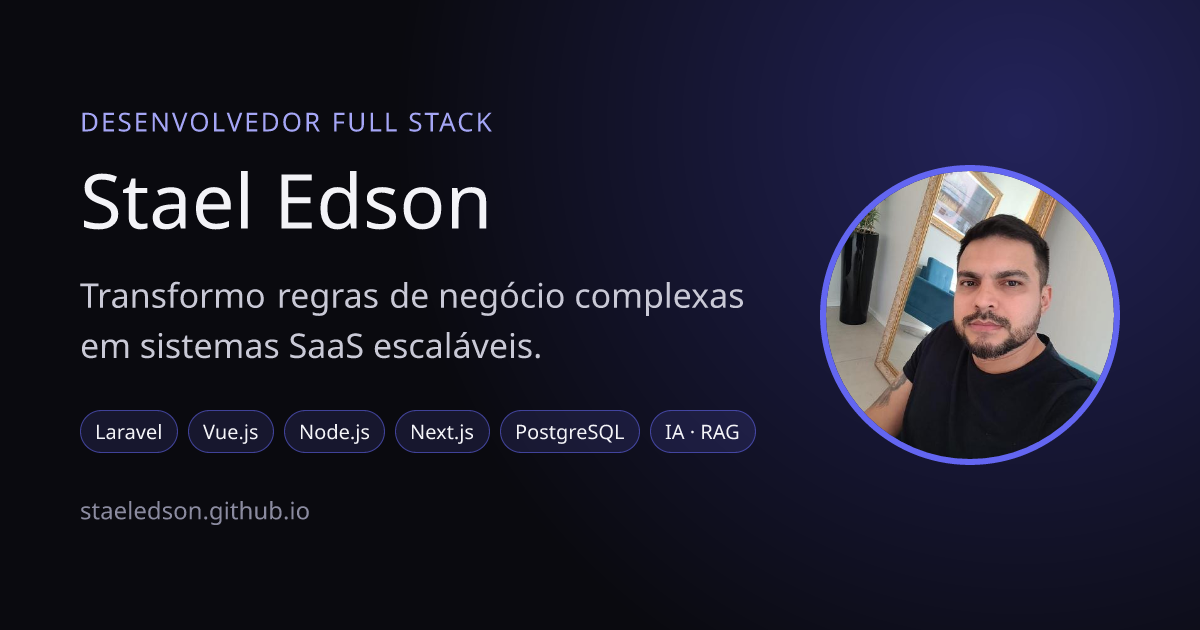
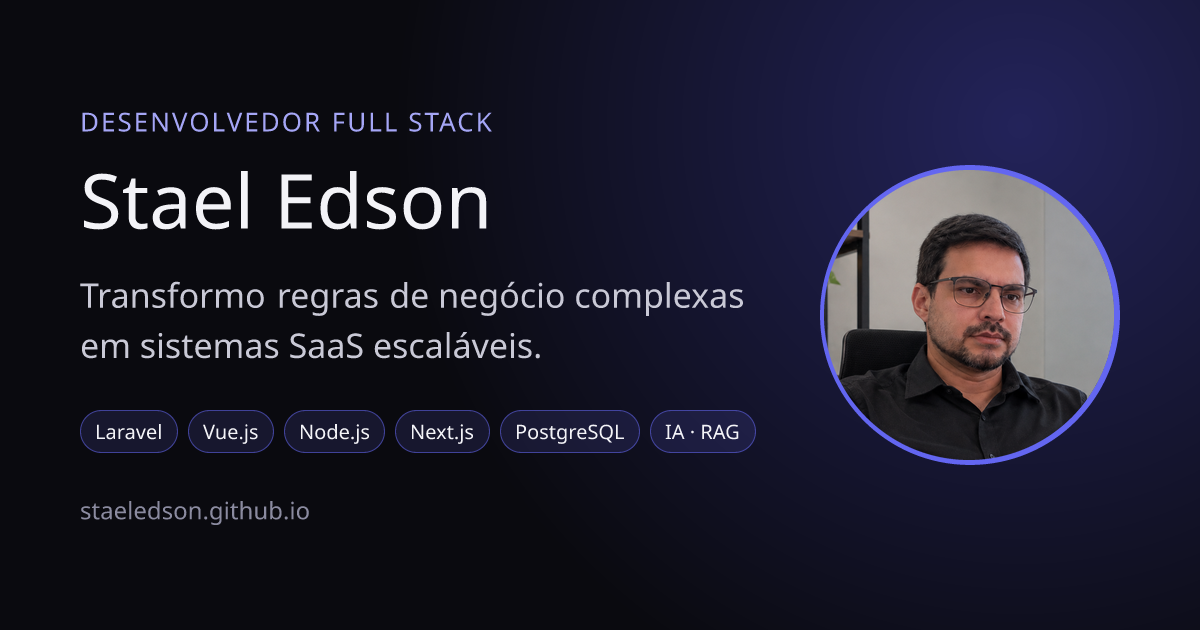
Atualiza foto de perfil e contador de experiência para 3,5+
- Nova foto (a mesma do LinkedIn) no avatar do hero, na seção Sobre
  (recorte 4:5 em profile-about.jpg) e na imagem de compartilhamento og.png
- CountUp passa a exibir uma casa decimal para valores não inteiros,
  formatada conforme o idioma (3,5+ / 3.5+)

Changed region(s): [[0.6783, 0.2714, 0.9558, 0.7238]]

diff --git a/src/components/ui/CountUp.tsx b/src/components/ui/CountUp.tsx
@@ -3,14 +3,16 @@
 import { useEffect, useRef, useState } from "react";
 import { useInView, useReducedMotion } from "framer-motion";
 
-/** Counts from 0 to `value` once it scrolls into view. */
+/** Counts from 0 to `value` once it scrolls into view. Keeps one decimal for non-integer values. */
 export default function CountUp({
-  value, suffix = "", duration = 1400,
-}: { value: number; suffix?: string; duration?: number }) {
+  value, suffix = "", duration = 1400, locale = "pt",
+}: { value: number; suffix?: string; duration?: number; locale?: string }) {
   const ref = useRef<HTMLSpanElement>(null);
   const inView = useInView(ref, { once: true, amount: 0.4 });
   const reduce = useReducedMotion();
   const [n, setN] = useState(0);
+  const decimals = Number.isInteger(value) ? 0 : 1;
+  const factor = 10 ** decimals;
 
   useEffect(() => {
     if (!inView) return;
@@ -20,12 +22,16 @@ export default function CountUp({
     const tick = (t: number) => {
       const p = Math.min(1, (t - start) / duration);
       const eased = 1 - Math.pow(1 - p, 3);
-      setN(Math.round(eased * value));
+      setN(Math.round(eased * value * factor) / factor);
       if (p < 1) raf = requestAnimationFrame(tick);
     };
     raf = requestAnimationFrame(tick);
     return () => cancelAnimationFrame(raf);
   }, [inView, reduce, value, duration]);
 
-  return <span ref={ref}>{n}{suffix}</span>;
+  const text = n.toLocaleString(locale, {
+    minimumFractionDigits: decimals,
+    maximumFractionDigits: decimals,
+  });
+  return <span ref={ref}>{text}{suffix}</span>;
 }

diff --git a/src/lib/content.ts b/src/lib/content.ts
@@ -408,7 +408,7 @@ export const projects: Project[] = [
     stats: {
       kicker: "Em números",
       items: [
-        { value: 3, suffix: "+", label: "anos de experiência" },
+        { value: 3.5, suffix: "+", label: "anos de experiência" },
         { value: 20, suffix: "+", label: "sistemas e produtos entregues" },
         { value: 25, suffix: "%", label: "mais rápido em módulos críticos" },
         { value: 30, suffix: "%", label: "entregas aceleradas com componentes" },
@@ -586,7 +586,7 @@ export const projects: Project[] = [
     stats: {
       kicker: "By the numbers",
       items: [
-        { value: 3, suffix: "+", label: "years of experience" },
+        { value: 3.5, suffix: "+", label: "years of experience" },
         { value: 20, suffix: "+", label: "systems and products shipped" },
         { value: 25, suffix: "%", label: "faster critical modules" },
         { value: 30, suffix: "%", label: "faster delivery with components" },

diff --git a/src/components/About.tsx b/src/components/About.tsx
@@ -12,7 +12,7 @@ export default function About() {
       <div className="container about-grid">
         <div className="about-media">
           <Reveal className="about-photo">
-            <Image src="/profile.jpg" alt={t.about.photoAlt} width={520} height={640} />
+            <Image src="/profile-about.jpg" alt={t.about.photoAlt} width={840} height={1050} />
             <div className="about-photo-tag">
               <span className="avail-dot" aria-hidden="true" />Sobral · BR
             </div>

diff --git a/src/components/Stats.tsx b/src/components/Stats.tsx
@@ -11,7 +11,7 @@ export default function Stats() {
       <div className="container stats-grid">
         {t.stats.items.map((s, i) => (
           <Reveal className="stat" key={i} delay={i * 70}>
-            <div className="stat-num"><CountUp value={s.value} suffix={s.suffix} /></div>
+            <div className="stat-num"><CountUp value={s.value} suffix={s.suffix} locale={t.meta.lang} /></div>
             <div className="stat-label">{s.label}</div>
           </Reveal>
         ))}
